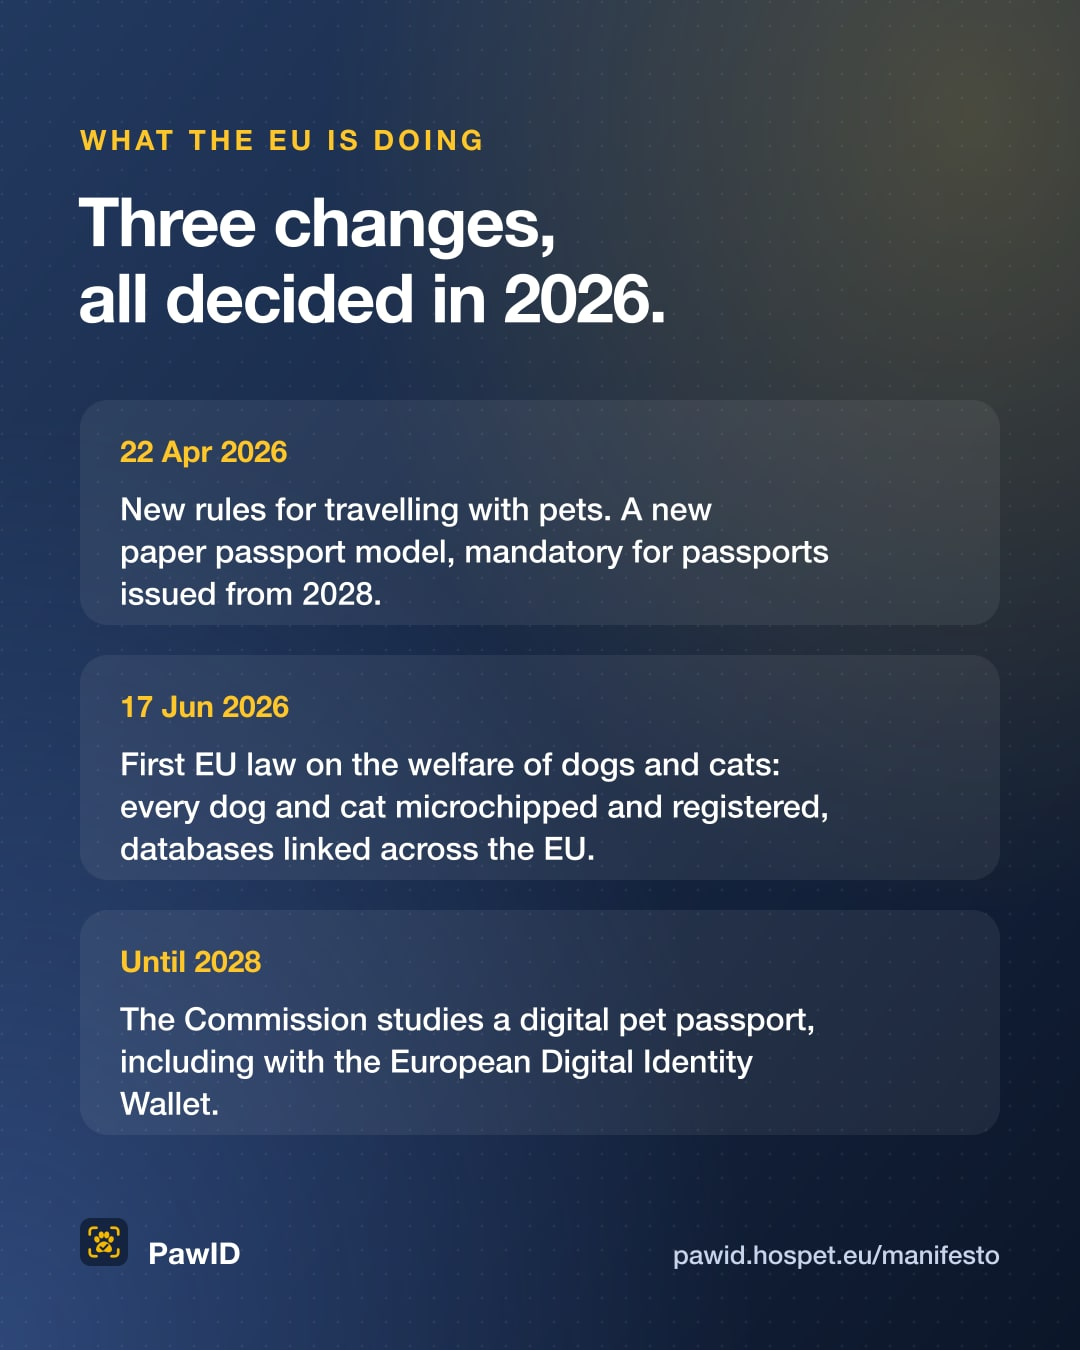
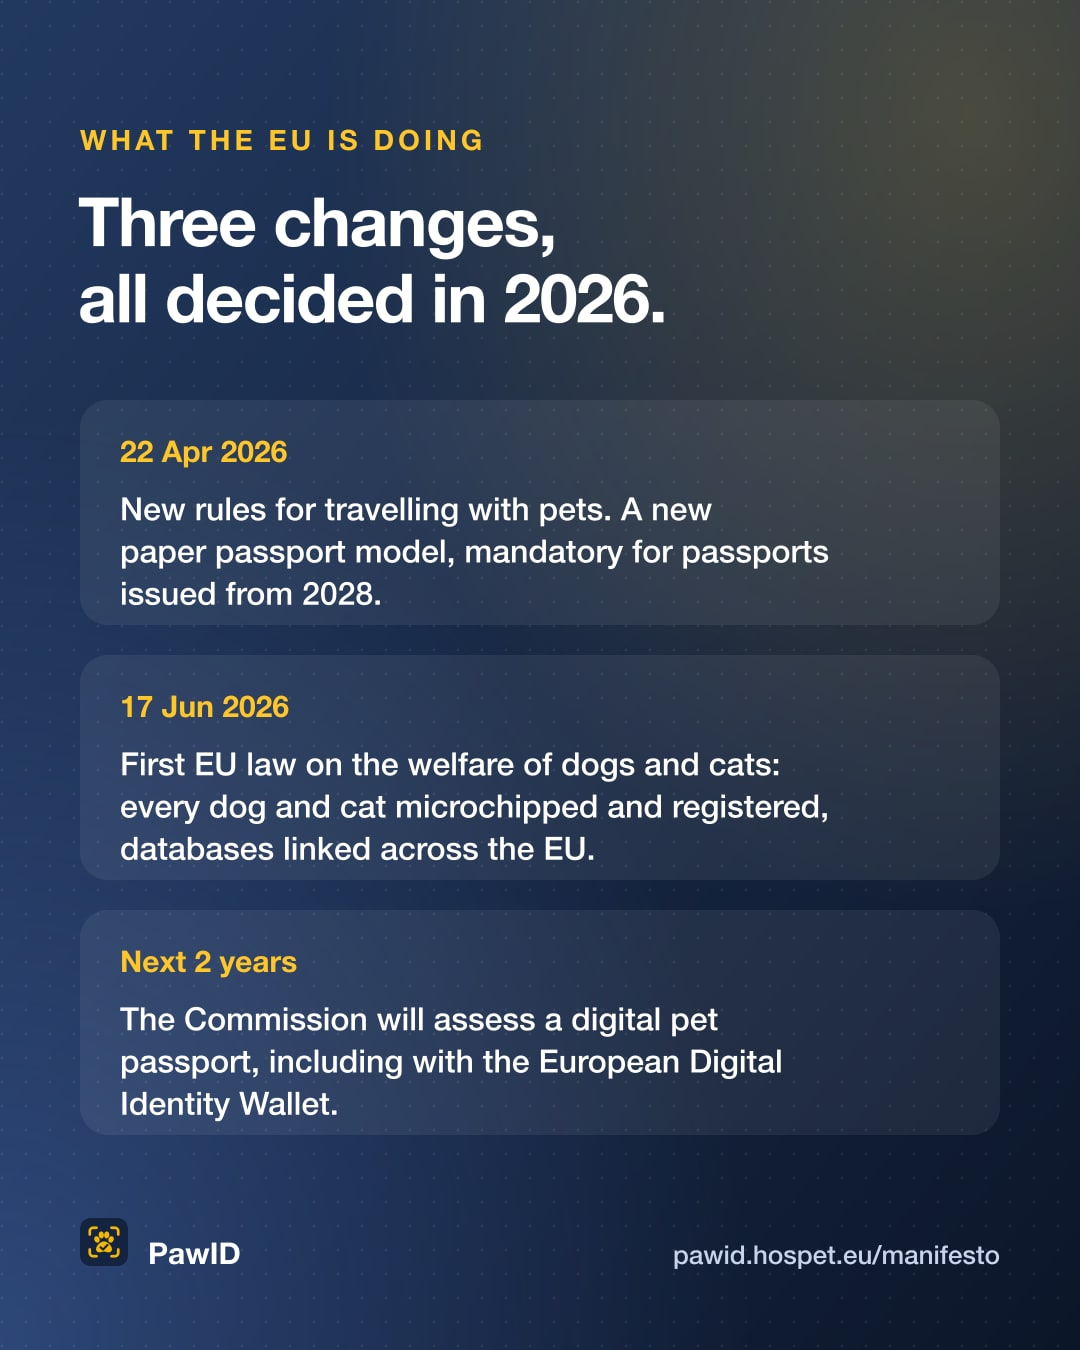
Manifesto, checked against the sources: the Commission statement is now cited from the Official Journal (C/2026/4812, 8 September 2026) in its own words, 'considers positively', assessment within 2 years with the Member States, then delegated acts (was 'until mid 2028', a date the statement does not

Changed region(s): [[0.0917, 0.7467, 0.7639, 0.84], [0.1222, 0.6844, 0.275, 0.7467]]

diff --git a/apps/web/src/manifesto.ts b/apps/web/src/manifesto.ts
@@ -198,13 +198,14 @@ const main = el("main", { id: "main" },
     el("ol", { class: "m-time" },
       el("li", {}, el("time", { attrs: { datetime: "2026-04-22" } }, "22 Apr 2026"), el("span", {}, el("b", {}, "New rules for travelling with pets. "), "Delegated Regulation (EU) 2026/131 replaces the old pet travel rules. A new paper passport model (Implementing Regulation (EU) 2026/705) becomes mandatory for passports issued from 1 January 2028.")),
       el("li", {}, el("time", { attrs: { datetime: "2026-06-17" } }, "17 Jun 2026"), el("span", {}, el("b", {}, "The first EU law on the welfare of dogs and cats. "), "Regulation (EU) 2026/1818: every dog and cat microchipped and registered in a national database, databases linked across the EU, and a free online check of identification and registration. The obligations start for breeders and sellers in 2030, dog owners in 2036 and cat owners in 2041.")),
-      el("li", {}, el("time", { attrs: { datetime: "2028" } }, "Until mid 2028"), el("span", {}, el("b", {}, "A digital pet passport, under study. "), "In a statement with the new law, the Commission says it views a digital pet passport favourably and will assess, with the Member States, how to do it, including with the European Digital Identity Wallet. Only then will it consider the legal acts.")),
+      el("li", {}, el("time", { attrs: { datetime: "2026-09-08" } }, "Next 2 years"), el("span", {}, el("b", {}, "A digital pet passport, under study. "), "In a statement on the new law (8 September 2026), the Commission says it considers positively digitalising the pet passport. Within 2 years, with the Member States, it will assess how, including the option of the European Digital Identity Wallet. Then it will consider the legal acts (delegated acts under the Animal Health Law).")),
     ),
   ),
 
   sec("who", "users", "Who asked for it",
     el("ul", { class: "m-list" },
       item("check", "The Member States.", "In 2022 they asked the Commission for common EU rules on the keeping and sale of dogs, with harmonised traceability."),
+      item("check", "European vets and pet registries.", "In June 2022 FECAVA, the federation of European companion animal vets, and Europetnet, a network of national pet databases, proposed turning the EU pet passport into an electronic pet passport, \"a digital Lifetime Identity Document\", with microchips and national databases linked across the EU."),
       item("check", "The Commission", "proposed the law on 7 December 2023."),
       item("check", "The European Parliament", "voted its position on 28 April 2026, 558 votes to 35. According to the Socialists and Democrats group, Parliament pushed beyond the proposal for the option of a digital pet passport."),
     ),
@@ -235,7 +236,9 @@ const main = el("main", { id: "main" },
       why("stethoscope", "Vets stay the issuers", "PawID never creates health data. A registered vet confirms the microchip and rabies vaccine with a fingerprint."),
       why("shieldCheck", "The owner's data stays on the owner's phone", "No account, no central database of pets. The owner chooses what a venue sees, and for how long."),
       why("code", "Ready for the EU's own passport", "Open formats, signatures anyone can check and room for the European Digital Identity Wallet, so nothing is lost when the official digital passport arrives."),
-      why("translate", "Every language", "Translations are open to everyone who speaks one, so a vet in Lisbon and a hotel in Tallinn use the same tool."),
+      why("translate", "Every language, every phone", "Translations are open to everyone who speaks one. The app works in any recent browser, and the pet card can be printed for people without a smartphone."),
+      why("github", "Anyone can reuse it", "The code is under the Apache 2.0 licence. A city, a national registry or a vet's software can run it, adapt it or take parts of it, without asking us."),
+      why("users", "Decided in the open", "Code, rules and discussions are public on GitHub. We want vets, owners, associations and developers to shape the project, not one company."),
       why("hotel", "Free for every venue", "Hotels, restaurants, museums and campsites add PawID with one line of code. No fee, no lock-in."),
     ),
   ),
@@ -262,10 +265,12 @@ const main = el("main", { id: "main" },
   ),
 
   el("details", { class: "pw-card m-sec m-sources", id: "sources" },
-    el("summary", {}, "Sources (7)"),
+    el("summary", {}, "Sources (9)"),
     el("ul", { class: "m-src" },
       src("https://eur-lex.europa.eu/eli/reg/2026/1818/oj/eng", "Regulation (EU) 2026/1818 on the welfare of dogs and cats and their traceability (EUR-Lex)"),
-      src("https://data.europarl.europa.eu/distribution/doc/TA-10-2026-0115_en.pdf", "European Parliament, position of 28 April 2026, with the Commission statement on the pet passport"),
+      src("https://eur-lex.europa.eu/eli/C/2026/4812", "Commission statements on Regulation (EU) 2026/1818, including the pet passport (Official Journal C/2026/4812, 8 September 2026)"),
+      src("https://data.europarl.europa.eu/distribution/doc/TA-10-2026-0115_en.pdf", "European Parliament, position of 28 April 2026"),
+      src("https://www.fecava.org/fecava-and-europetnet-set-up-a-blueprint-for-the-future-of-the-identification-and-registration-of-companion-animals-across-europe/", "FECAVA and Europetnet, a blueprint for identification and registration of companion animals (13 June 2022)"),
       src("https://oeil.europarl.europa.eu/oeil/en/document-summary?id=1899832", "European Parliament Legislative Observatory, procedure 2023/0447(COD)"),
       src("https://data.consilium.europa.eu/doc/document/ST-16406-2023-INIT/EN/pdf", "Commission proposal COM(2023) 769 of 7 December 2023"),
       src("https://socialistsanddemocrats.eu/newsroom/eu-set-improve-health-and-wellbeing-dogs-and-cats-thanks-sds", "Socialists and Democrats group, on the digital pet passport option"),

diff --git a/scripts/instagram.ts b/scripts/instagram.ts
@@ -56,7 +56,7 @@ const slides: string[] = [
   ${lines(78, 170, [["Three changes,", 68, "#fff", 800], ["all decided in 2026.", 68, "#fff", 800]], 1.12)}
   ${[["22 Apr 2026", "New rules for travelling with pets. A new paper passport model, mandatory for passports issued from 2028."],
      ["17 Jun 2026", "First EU law on the welfare of dogs and cats: every dog and cat microchipped and registered, databases linked across the EU."],
-     ["Until 2028", "The Commission studies a digital pet passport, including with the European Digital Identity Wallet."]]
+     ["Next 2 years", "The Commission will assess a digital pet passport, including with the European Digital Identity Wallet."]]
     .map(([d, t], i) => { const y = 400 + i * 255; return `<rect x="80" y="${y}" width="920" height="225" rx="28" fill="#fff" fill-opacity=".07"/>
       <text x="120" y="${y + 62}" font-family="${F}" font-size="30" font-weight="800" fill="${GOLD}">${d}</text>${lines(120, y + 78, wrap(t!, 46).map((l) => [l, 32, "#fff", 500] as [string, number, string, number]), 1.32)}`; }).join("")}
   ${footer(W, H)}`,

diff --git a/apps/web/src/support.ts b/apps/web/src/support.ts
@@ -146,7 +146,7 @@ const main = el("main", { id: "main" },
     el("h2", {}, "What we do with it"),
     el("ul", { class: "s-why" },
       why("heartHandshake", "European open source grants", "Funding programmes for open source ask who needs the project. Your statement is the answer."),
-      why("idcard", "The EU digital pet passport", "The Commission will assess a digital pet passport by mid 2028. We will share how many vets, venues and owners already use and support PawID."),
+      why("idcard", "The EU digital pet passport", "The Commission will assess a digital pet passport within two years. We will share how many vets, venues and owners already use and support PawID."),
       why("stethoscope", "Vets' and venues' associations", "We show the numbers to vet associations and tourism bodies, to start pilots."),
     ),
     el("p", { class: "pw-hint flush" }, "We do not ask for money. We never sell or share emails."),
